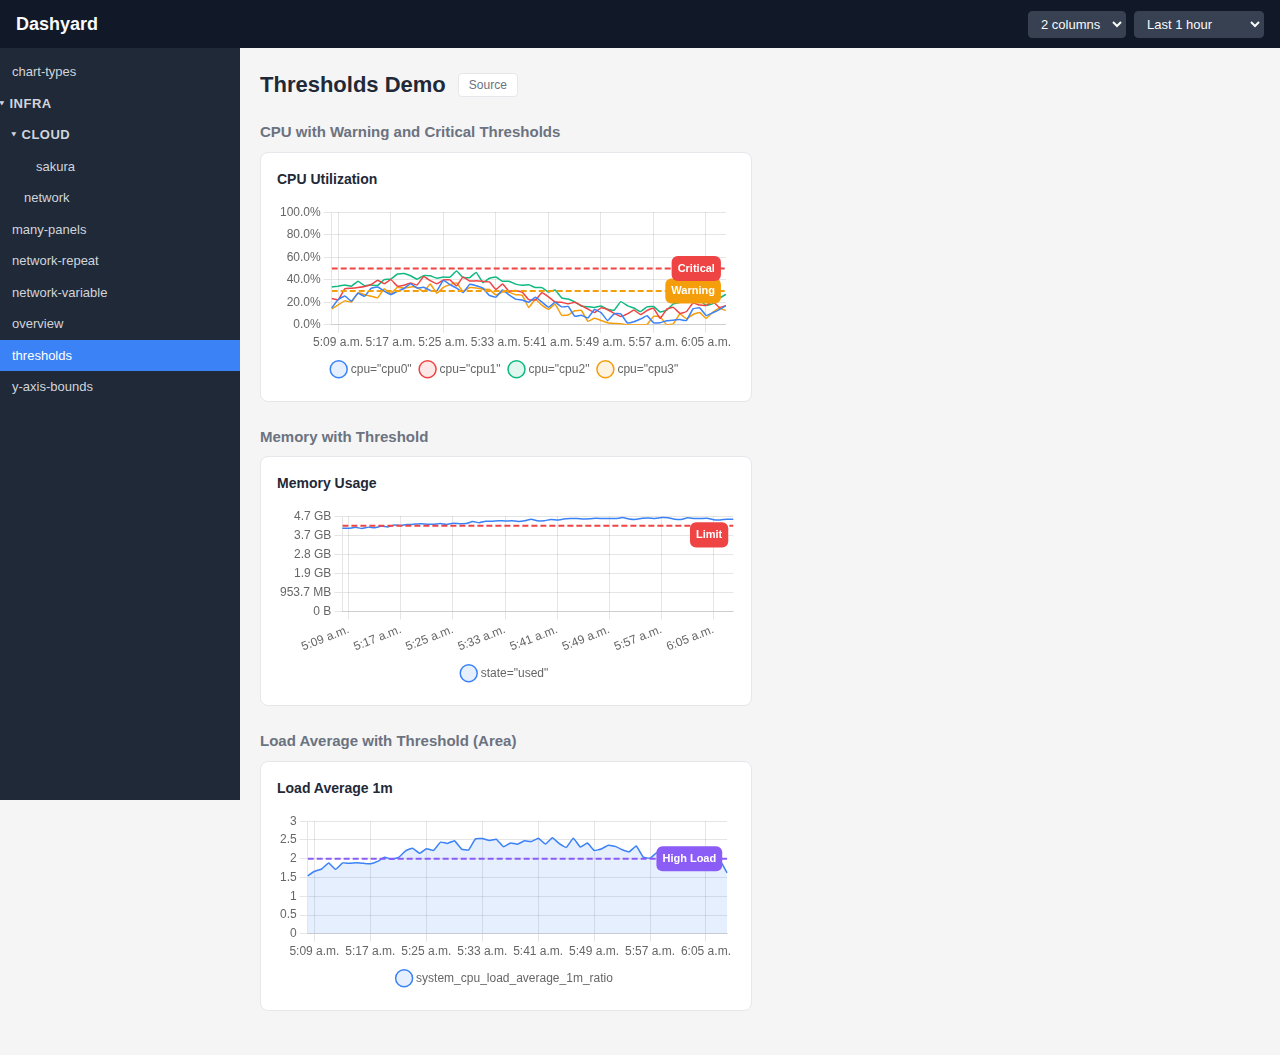
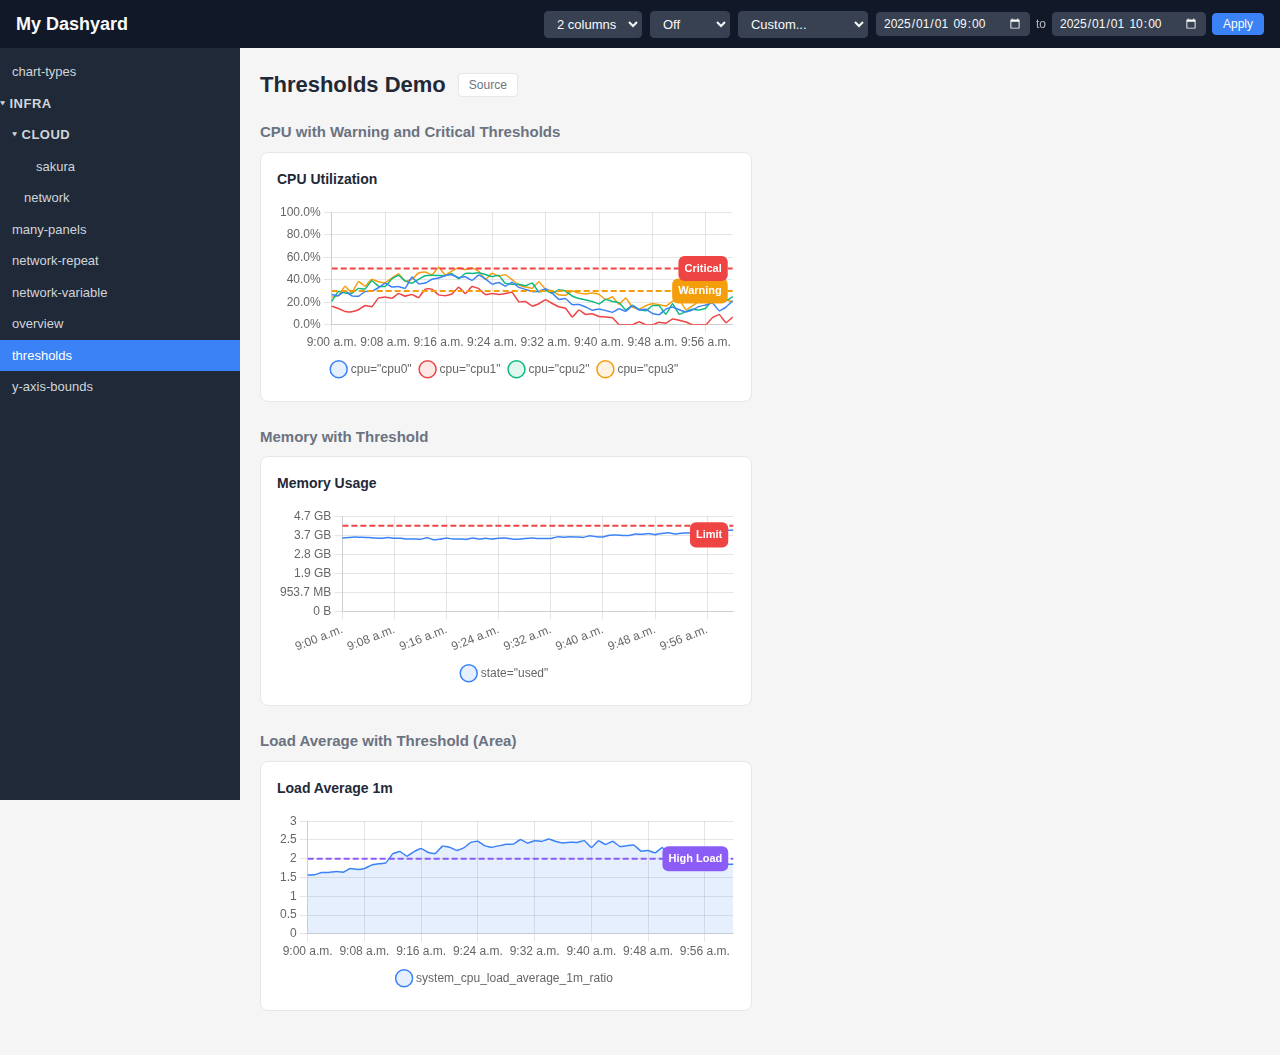
Add auto-refresh interval selector for dashboards
Add a configurable refresh interval dropdown (Off/10s/30s/1m/5m) in
the header that periodically re-fetches panel data for relative time
ranges. Absolute time ranges are unaffected since re-fetching the same
window yields identical data. Includes e2e tests and updated screenshots.

diff --git a/frontend/e2e/refresh-interval.spec.ts b/frontend/e2e/refresh-interval.spec.ts
@@ -1,0 +1,114 @@
+import { test, expect } from "@playwright/test";
+
+test.describe("Refresh Interval Selector", () => {
+  test.beforeEach(async ({ page }) => {
+    await page.goto("/");
+    await page.locator(".sidebar-item", { hasText: "overview" }).click();
+    await expect(page.locator(".panel").first()).toBeVisible();
+  });
+
+  test("selector exists with default Off and correct options", async ({
+    page,
+  }) => {
+    const selector = page.locator(".refresh-interval-selector");
+    await expect(selector).toBeVisible();
+
+    // Default should be "Off" (value 0)
+    await expect(selector).toHaveValue("0");
+
+    const options = selector.locator("option");
+    await expect(options).toHaveCount(5);
+
+    const values = await options.evaluateAll((els) =>
+      els.map((el) => (el as HTMLOptionElement).value)
+    );
+    expect(values).toEqual(["0", "10000", "30000", "60000", "300000"]);
+
+    const labels = await options.evaluateAll((els) =>
+      els.map((el) => (el as HTMLOptionElement).textContent)
+    );
+    expect(labels).toEqual(["Off", "⟳ 10s", "⟳ 30s", "⟳ 1m", "⟳ 5m"]);
+  });
+
+  test("auto-refresh triggers periodic API calls for relative time range", async ({
+    page,
+  }) => {
+    // Count query_range requests
+    let queryCount = 0;
+    page.on("request", (req) => {
+      if (req.url().includes("/api/query_range")) {
+        queryCount++;
+      }
+    });
+
+    // Wait for initial load requests to settle
+    await page.waitForTimeout(1000);
+    queryCount = 0;
+
+    // Select 10s refresh interval (shortest available)
+    const selector = page.locator(".refresh-interval-selector");
+    await selector.selectOption("10000");
+
+    // Wait long enough for at least one refresh cycle
+    await page.waitForTimeout(12000);
+
+    // Should have made at least 1 new batch of API calls
+    expect(queryCount).toBeGreaterThan(0);
+  });
+
+  test("selecting Off stops periodic requests", async ({ page }) => {
+    const selector = page.locator(".refresh-interval-selector");
+
+    // Enable refresh
+    await selector.selectOption("10000");
+    await page.waitForTimeout(2000);
+
+    // Turn it off
+    await selector.selectOption("0");
+
+    // Count requests after turning off
+    let queryCount = 0;
+    page.on("request", (req) => {
+      if (req.url().includes("/api/query_range")) {
+        queryCount++;
+      }
+    });
+
+    // Wait and verify no new requests
+    await page.waitForTimeout(12000);
+    expect(queryCount).toBe(0);
+  });
+
+  test("auto-refresh does not trigger for absolute time range", async ({
+    page,
+  }) => {
+    // Set an absolute time range via URL
+    const now = new Date();
+    const oneHourAgo = new Date(now.getTime() - 3600 * 1000);
+    const fromISO = encodeURIComponent(oneHourAgo.toISOString());
+    const toISO = encodeURIComponent(now.toISOString());
+    await page.goto(`/d/overview?from=${fromISO}&to=${toISO}`);
+    await expect(page.locator(".panel").first()).toBeVisible();
+
+    // Wait for initial requests to settle
+    await page.waitForTimeout(1000);
+
+    // Count requests
+    let queryCount = 0;
+    page.on("request", (req) => {
+      if (req.url().includes("/api/query_range")) {
+        queryCount++;
+      }
+    });
+
+    // Enable refresh
+    const selector = page.locator(".refresh-interval-selector");
+    await selector.selectOption("10000");
+
+    // Wait for a refresh cycle
+    await page.waitForTimeout(12000);
+
+    // No new requests should have been made (absolute range returns same ref)
+    expect(queryCount).toBe(0);
+  });
+});

diff --git a/frontend/src/components/Header.tsx b/frontend/src/components/Header.tsx
@@ -1,4 +1,5 @@
 import { TimeRangeSelector } from './TimeRangeSelector';
+import { RefreshIntervalSelector } from './RefreshIntervalSelector';
 import type { TimeRange } from '../types';
 
 interface HeaderProps {
@@ -8,9 +9,11 @@ interface HeaderProps {
   headerColor: string;
   columns: number;
   onColumnsChange: (n: number) => void;
+  refreshInterval: number;
+  onRefreshIntervalChange: (interval: number) => void;
 }
 
-export function Header({ timeRange, onTimeRangeChange, siteTitle, headerColor, columns, onColumnsChange }: HeaderProps) {
+export function Header({ timeRange, onTimeRangeChange, siteTitle, headerColor, columns, onColumnsChange, refreshInterval, onRefreshIntervalChange }: HeaderProps) {
   return (
     <header className="header" style={headerColor ? { background: headerColor } : undefined}>
       <h1 className="header-title">{siteTitle}</h1>
@@ -24,6 +27,7 @@ export function Header({ timeRange, onTimeRangeChange, siteTitle, headerColor, c
             <option key={n} value={n}>{n} columns</option>
           ))}
         </select>
+        <RefreshIntervalSelector value={refreshInterval} onChange={onRefreshIntervalChange} />
         <TimeRangeSelector selected={timeRange} onChange={onTimeRangeChange} />
       </div>
     </header>

diff --git a/frontend/src/components/Layout.tsx b/frontend/src/components/Layout.tsx
@@ -12,13 +12,15 @@ interface LayoutProps {
   headerColor: string;
   columns: number;
   onColumnsChange: (n: number) => void;
+  refreshInterval: number;
+  onRefreshIntervalChange: (interval: number) => void;
   children: React.ReactNode;
 }
 
-export function Layout({ tree, currentPath, timeRange, onTimeRangeChange, onNavigate, siteTitle, headerColor, columns, onColumnsChange, children }: LayoutProps) {
+export function Layout({ tree, currentPath, timeRange, onTimeRangeChange, onNavigate, siteTitle, headerColor, columns, onColumnsChange, refreshInterval, onRefreshIntervalChange, children }: LayoutProps) {
   return (
     <div className="layout">
-      <Header timeRange={timeRange} onTimeRangeChange={onTimeRangeChange} siteTitle={siteTitle} headerColor={headerColor} columns={columns} onColumnsChange={onColumnsChange} />
+      <Header timeRange={timeRange} onTimeRangeChange={onTimeRangeChange} siteTitle={siteTitle} headerColor={headerColor} columns={columns} onColumnsChange={onColumnsChange} refreshInterval={refreshInterval} onRefreshIntervalChange={onRefreshIntervalChange} />
       <div className="layout-body">
         <Sidebar tree={tree} currentPath={currentPath} onNavigate={onNavigate} />
         <main className="layout-main">

diff --git a/frontend/src/App.tsx b/frontend/src/App.tsx
@@ -65,6 +65,15 @@ function App() {
   const [currentPath, setCurrentPath] = useState<string | null>(parseDashboardPath);
   const [timeRange, setTimeRange] = useState<TimeRange>(parseTimeRange);
   const [columns, setColumns] = useState(2);
+  const [refreshInterval, setRefreshInterval] = useState(0);
+
+  useEffect(() => {
+    if (refreshInterval <= 0) return;
+    const id = setInterval(() => {
+      setTimeRange((prev) => (prev.type === 'relative' ? { ...prev } : prev));
+    }, refreshInterval);
+    return () => clearInterval(id);
+  }, [refreshInterval]);
 
   const handleAuthError = useCallback(() => {
     setAuthenticated(false);
@@ -144,6 +153,8 @@ function App() {
       headerColor={dashboardsData.header_color}
       columns={columns}
       onColumnsChange={setColumns}
+      refreshInterval={refreshInterval}
+      onRefreshIntervalChange={setRefreshInterval}
     >
       <DashboardView
         path={activePath}

diff --git a/frontend/src/components/RefreshIntervalSelector.tsx b/frontend/src/components/RefreshIntervalSelector.tsx
@@ -1,0 +1,28 @@
+const REFRESH_OPTIONS = [
+  { label: 'Off', value: 0 },
+  { label: '10s', value: 10_000 },
+  { label: '30s', value: 30_000 },
+  { label: '1m', value: 60_000 },
+  { label: '5m', value: 300_000 },
+];
+
+interface RefreshIntervalSelectorProps {
+  value: number;
+  onChange: (interval: number) => void;
+}
+
+export function RefreshIntervalSelector({ value, onChange }: RefreshIntervalSelectorProps) {
+  return (
+    <select
+      className="refresh-interval-selector"
+      value={value}
+      onChange={(e) => onChange(Number(e.target.value))}
+    >
+      {REFRESH_OPTIONS.map((opt) => (
+        <option key={opt.value} value={opt.value}>
+          {opt.value === 0 ? opt.label : `⟳ ${opt.label}`}
+        </option>
+      ))}
+    </select>
+  );
+}

diff --git a/frontend/src/index.css b/frontend/src/index.css
@@ -95,6 +95,16 @@ body {
   cursor: pointer;
 }
 
+.refresh-interval-selector {
+  padding: 4px 8px;
+  border-radius: 4px;
+  border: 1px solid #374151;
+  background: #374151;
+  color: var(--color-header-text);
+  font-size: 13px;
+  cursor: pointer;
+}
+
 .time-range-selector-container {
   display: flex;
   align-items: center;
